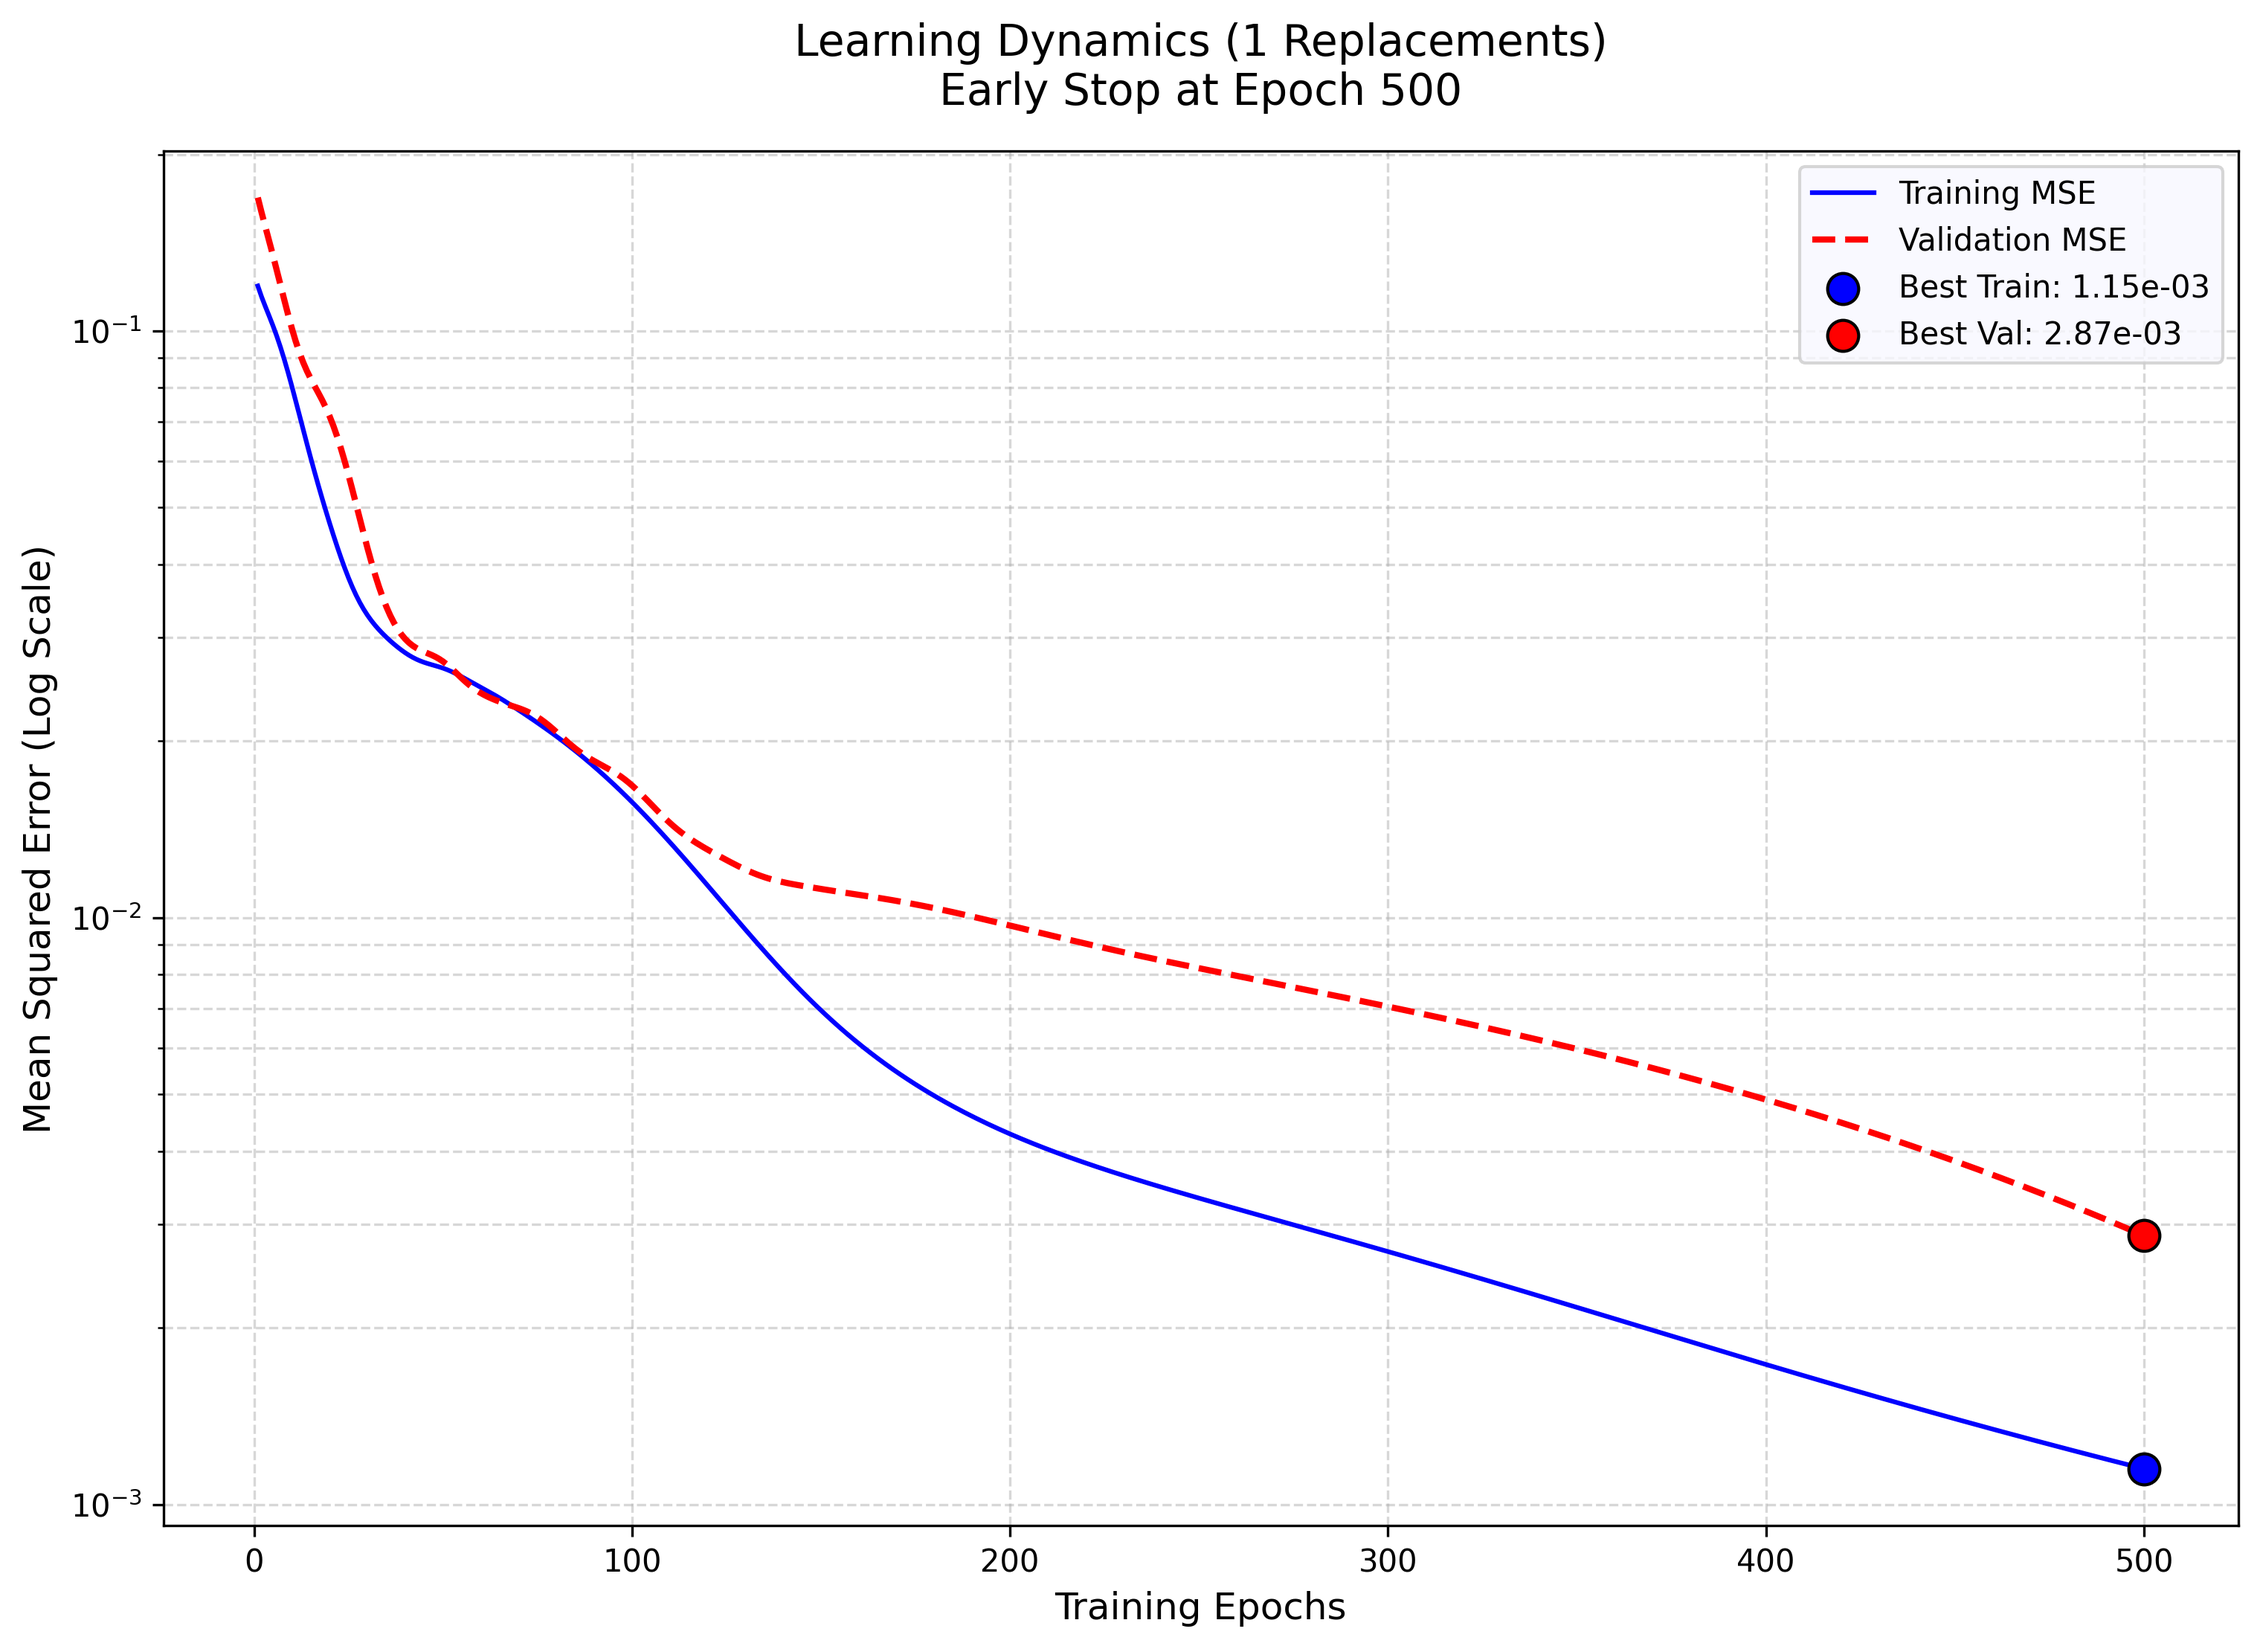
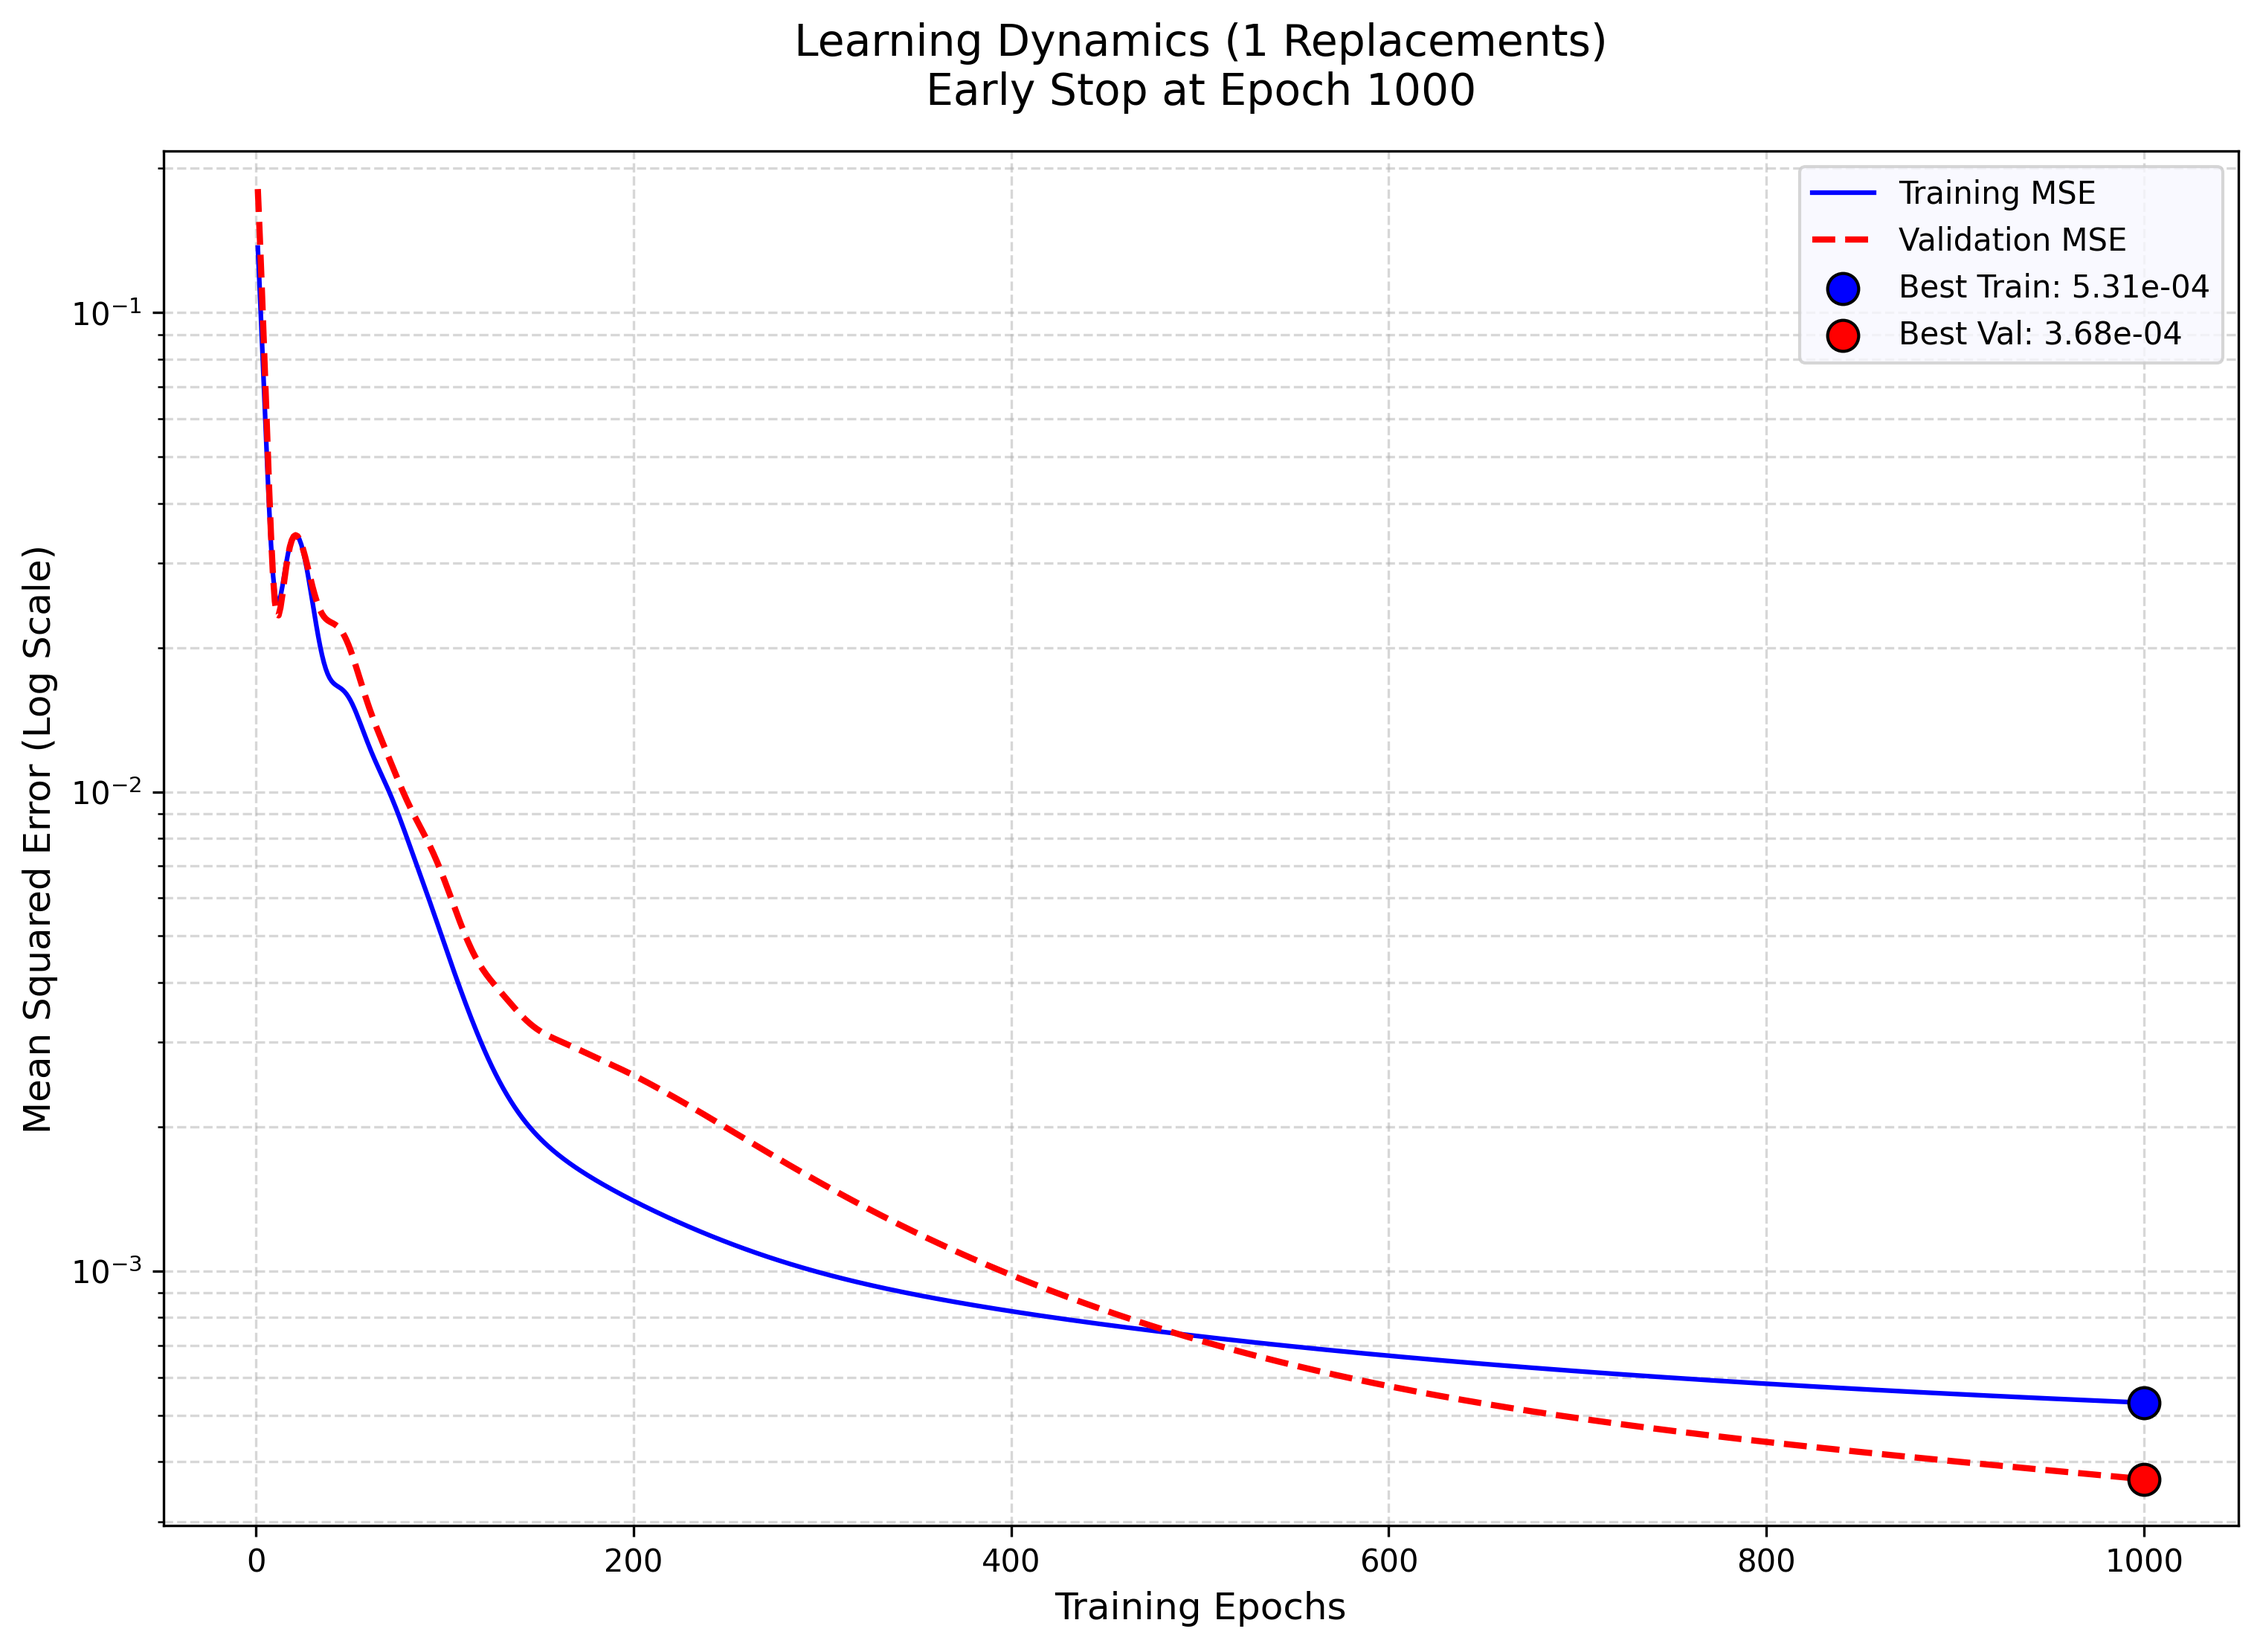
Version 1.2, fixed early stop output bugs. Can show tra and val mse up to 1000 epoch, still does not converge and overfitting occurs.

diff --git a/Ann.py b/Ann.py
@@ -3,7 +3,6 @@ from sklearn.pipeline import Pipeline
 from sklearn.preprocessing import StandardScaler
 from sklearn.metrics import mean_squared_error
 from sklearn.model_selection import train_test_split
-from sklearn.base import clone
 import joblib
 import numpy as np
 import warnings
@@ -25,7 +24,15 @@ class ANN:
         self.model = MLPRegressor(**self.base_config)  # 统一使用model属性
         self.best_weights = None
     
-    def train(self, X, y, max_epochs=500):
+    def train(self, X, y, max_epochs=1000, verbose=True):
+        # 新增参数类型校验
+        if not isinstance(verbose, bool):
+            raise ValueError("verbose参数必须为布尔类型")
+            
+        # 增加数据标准化
+        self.scaler = StandardScaler()
+        X = self.scaler.fit_transform(X)
+
         # 分割训练集和验证集
         X_train, X_val, y_train, y_val = train_test_split(
             X, y, test_size=0.2, random_state=42
@@ -36,41 +43,43 @@ class ANN:
             warnings.filterwarnings("ignore", category=UserWarning)
             self.model.fit(X_train, y_train)
         
-        '''# 克隆基础配置
-        current_model = clone(self.model)
-        current_model.fit(X_train, y_train)  # 初始化'''
-        
         train_loss = []
         val_loss = []
         best_loss = np.inf
         
+        best_epoch = 0
+        early_stop_flag = False
         for epoch in range(max_epochs):
-            # 增量训练（实际执行1个epoch）
-            self.model.partial_fit(X_train, y_train)
-            
-            # 记录训练损失
-            train_loss.append(self.model.loss_)
-            
-            # 计算验证损失
-            y_pred = self.model.predict(X_val)
-            current_val_loss = mean_squared_error(y_val, y_pred)
-            val_loss.append(current_val_loss)
-            
-            # 更新最佳权重
-            if current_val_loss < best_loss * 0.999:
-                best_loss = current_val_loss
-                self.best_weights = [w.copy() for w in self.model.coefs_]
+            if not early_stop_flag:
+                # 继续正常训练流程
+                self.model.partial_fit(X_train, y_train)
                 
-            # 动态早停检测
-            if (epoch > 20 and 
-                np.mean(val_loss[-10:]) >= np.mean(val_loss[-20:-10])):
-                break
+                # 记录损失和验证指标
+                train_loss.append(self.model.loss_)
+                current_val_loss = mean_squared_error(y_val, self.model.predict(X_val))
+                val_loss.append(current_val_loss)
                 
+                # 更新最佳权重
+                if current_val_loss < best_loss * 0.999:
+                    best_loss = current_val_loss
+                    self.best_weights = [w.copy() for w in self.model.coefs_]
+                    best_epoch = epoch
+                
+                # 检测早停条件但不中断循环
+                # 改为动态容忍度
+                patience = max(20, int(0.1 * max_epochs))  # 至少20个epoch，最多10%总epoch数
+                if (epoch - best_epoch) > patience:
+                # if (epoch - best_epoch) > 2 * self.base_config['n_iter_no_change']:
+                    early_stop_flag = True
+                    if verbose:  # 添加条件判断
+                        print(f"\nEarly stopping triggered at epoch {epoch}, continuing for visualization...")
+            else:
+                # 早停后保持记录最后的最佳值
+                train_loss.append(train_loss[-1])
+                val_loss.append(val_loss[-1])
         # 恢复最佳权重
         self.model.coefs_ = self.best_weights
         return train_loss, val_loss
-
-
     
     def evaluate(self, X_test, y_test):
         y_pred = self.model.predict(X_test)

diff --git a/MT_solver.py b/MT_solver.py
@@ -11,7 +11,7 @@ class IterativeMTSolver:
         
         # Initilize baseline model
         self.baseline_model = ANN()
-        self.baseline_model.train(self.initial_X, self.initial_y)
+        self.baseline_model.train(self.initial_X, self.initial_y, verbose=False)
         self.baseline_mse, self.baseline_nmse = self.baseline_model.evaluate(self.optimal_X, self.optimal_y)
         
         # Current best model
@@ -24,7 +24,7 @@ class IterativeMTSolver:
         
         # Train optimal model using optimal dataset
         self.optimal_model = ANN()
-        self.optimal_model.train(self.optimal_X, self.optimal_y)
+        self.optimal_model.train(self.optimal_X, self.optimal_y, verbose=False)
     
     def run_iteration(self, num_replace, trial_id):
         # Skip if no replacement is needed
@@ -43,7 +43,7 @@ class IterativeMTSolver:
         
         # Evaluate a freshly trained ANN model using the modified dataset (temp_X, temp_y)
         model = ANN()
-        model.train(temp_X, temp_y)
+        model.train(temp_X, temp_y, verbose=False)
         current_mse, current_nmse = model.evaluate(self.optimal_X, self.optimal_y)
         
         # Compare and update better results

diff --git a/compare_replacement.py b/compare_replacement.py
@@ -79,7 +79,7 @@ def run_comparison(trials=50):
     plt.xlabel("Trial")
     plt.ylabel("MSE")
     plt.title("MSE Comparison Across Configurations")
-    plt.legend()
+    plt.legend(loc = 'upper right')
     plt.grid(True)
     plt.savefig("graphs/mse_comparison_all.png")
     plt.close()
@@ -93,7 +93,7 @@ def run_comparison(trials=50):
     plt.xlabel("Trial")
     plt.ylabel("Normalized MSE")
     plt.title("NMSE Comparison Across Configurations")
-    plt.legend()
+    plt.legend(loc = 'upper right')
     plt.grid(True)
     plt.savefig("graphs/nmse_comparison_all.png")
     plt.close()
